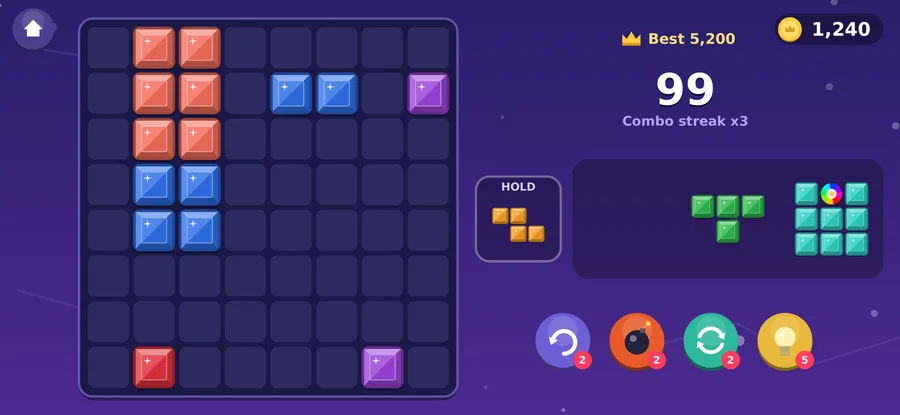
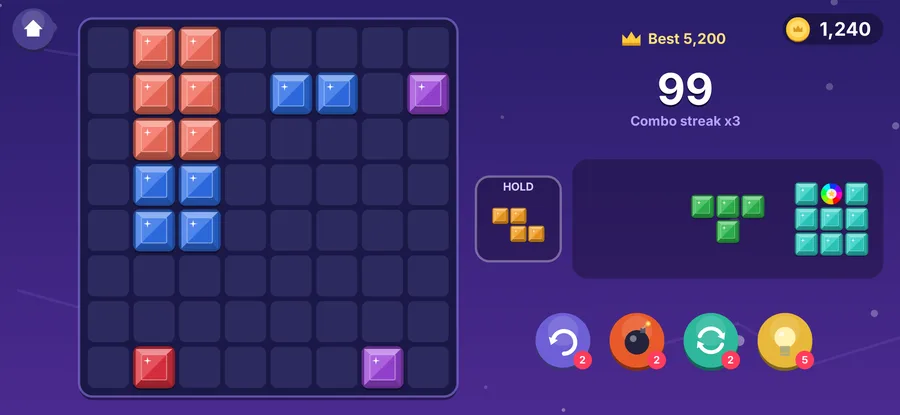
Tilequake page: more sections and pictures
Claude-Session: https://claude.ai/code/session_01KvnnsXbpzPnfzpkAY9YY1z

diff --git a/tilequake/index.html b/tilequake/index.html
@@ -105,6 +105,28 @@ details{background:rgba(0,0,0,.18);border:1px solid rgba(110,95,214,.45);border-
 summary{cursor:pointer;font-weight:700;color:#fff}
 details p{color:var(--soft);margin:8px 0 0}
 
+/* feature rows with pictures */
+.split{display:grid;grid-template-columns:1fr 1fr;gap:32px;align-items:center;margin:26px 0}
+.split.rev > .pics{order:-1}
+.pics{display:flex;gap:16px;justify-content:center;flex-wrap:wrap}
+.shot{margin:0;flex:0 0 auto;width:min(230px,42vw)}
+.shot.wide{width:min(520px,100%)}
+.shot.tab{width:min(300px,60vw)}
+.pics.three{gap:12px}
+.pics.three .shot{width:min(150px,26vw)}
+.shot img{border-radius:22px;border:3px solid #3d2e8f;box-shadow:0 18px 40px rgba(0,0,0,.45);width:100%;height:auto}
+.shot figcaption{font-size:13px;color:var(--muted);text-align:center;margin-top:8px}
+.worlds{display:grid;grid-template-columns:repeat(3,1fr);gap:16px}
+.world{border-radius:var(--r);padding:18px;background:rgba(0,0,0,.2);border:1px solid rgba(110,95,214,.45);border-top:6px solid var(--wc)}
+.world .lv{font-size:12px;font-weight:700;letter-spacing:.6px;color:var(--wc);text-transform:uppercase}
+.world h3{margin:2px 0 6px;font-size:20px;color:#fff}
+.world p{margin:0;color:var(--soft);font-size:15px}
+.diary li{margin-bottom:8px;color:var(--soft)}
+.diary b{color:var(--gold2)}
+.press a.btn{margin:4px 6px 4px 0}
+@media (max-width:860px){ .split{grid-template-columns:1fr} .split.rev > .pics{order:0} .worlds{grid-template-columns:1fr 1fr} }
+@media (max-width:560px){ .worlds{grid-template-columns:1fr} }
+
 footer{padding:36px 0 50px;color:var(--muted);font-size:14px;border-top:1px solid rgba(110,95,214,.3);margin-top:30px}
 footer .wrap{display:flex;flex-wrap:wrap;gap:16px;justify-content:space-between}
 
@@ -127,11 +149,14 @@ footer .wrap{display:flex;flex-wrap:wrap;gap:16px;justify-content:space-between}
       <a href="../">All games</a>
       <a href="#how">How to play</a>
       <a href="#modes">Modes</a>
+      <a href="#worlds">Worlds</a>
       <a href="#v1">Version 1</a>
       <a href="#roadmap">Roadmap</a>
       <a href="#rollout">Rollout</a>
       <a href="#apple">iPhone</a>
+      <a href="#shop">Shop</a>
       <a href="#faq">FAQ</a>
+      <a href="#support">Support</a>
     </div>
   </div>
 </nav>
@@ -248,6 +273,157 @@ footer .wrap{display:flex;flex-wrap:wrap;gap:16px;justify-content:space-between}
   </div>
 </section>
 
+<!-- ============================================================ WORLDS -->
+<section id="worlds">
+  <div class="wrap">
+    <h2>The six Adventure worlds</h2>
+    <p class="lead">Adventure has 120 levels, 20 in each world. Every level has one goal (score, lines, gems of one colour, or cracking ice), a move limit, and up to 3 stars. Each level was played and beaten by the game's own solver before release, so none of them are impossible.</p>
+    <div class="worlds">
+      <div class="world" style="--wc:#7f8cff"><div class="lv">Levels 1–20</div><h3>💎 Crystal Caves</h3><p>Where it all starts. Gentle boards that teach the four goals one at a time, with plenty of room to move.</p></div>
+      <div class="world" style="--wc:#ff8a4f"><div class="lv">Levels 21–40</div><h3>🔥 Ember Ridge</h3><p>Busier starting boards and rainbow gems twice as often, so big colour-clearing combos start to matter.</p></div>
+      <div class="world" style="--wc:#6fd6f4"><div class="lv">Levels 41–60</div><h3>❄ Frost Hollow</h3><p>The ice world. Most levels ask you to crack every frozen block: the first line clear only cracks the ice, the second breaks it.</p></div>
+      <div class="world" style="--wc:#f0c860"><div class="lv">Levels 61–80</div><h3>🏜 Desert Mirage</h3><p>A mix of every goal on fuller boards. Frozen blocks start showing up in levels that aren't about ice, too.</p></div>
+      <div class="world" style="--wc:#e078ea"><div class="lv">Levels 81–100</div><h3>🏮 Lantern Bazaar</h3><p>Tight boards and tighter move limits. Planning two lines ahead and using the Hold slot pays off here.</p></div>
+      <div class="world" style="--wc:#9a8cff"><div class="lv">Levels 101–120</div><h3>🌌 Starfall Peak</h3><p>The summit: the fullest starting boards in the game. Finishing all 120 levels earns a 1,000-coin trophy.</p></div>
+    </div>
+    <p class="lead" style="margin-top:20px">Stars: finish quickly for 3 stars, a bit slower for 2, and anywhere inside the move limit for 1. Ran out of moves? Add 5 more for 150 coins or a short video.</p>
+  </div>
+</section>
+
+<!-- ============================================================ LEARN / ACCESSIBILITY -->
+<section id="learn">
+  <div class="wrap">
+    <h2>Easy to learn, made for everyone</h2>
+    <div class="split">
+      <div>
+        <h3 style="font-size:24px;margin:0 0 8px">A one-minute guided tutorial</h3>
+        <p class="lead" style="margin-bottom:10px">The first time you tap Play, four short lessons show you what to do with a glowing target and a moving hand: fill a row, fill a column, park a piece in the Hold slot, then use it to clear two lines at once. Already know block puzzles? Tap <b>Skip</b>. You can replay it any time from <b>Settings › How to play</b>.</p>
+        <h3 style="font-size:24px;margin:22px 0 8px">Colour-blind mode</h3>
+        <p class="lead" style="margin-bottom:10px">Turn on <b>Symbols</b> in Settings and every gem colour also gets its own shape (● ▲ ■ ◆ ★ ✚ ⬢), so you never need to tell red from green to plan a move. It works with every block style.</p>
+      </div>
+      <div class="pics">
+        <figure class="shot"><img src="img/tutorial.webp" alt="Tutorial lesson with a glowing target row and a hand showing where to drag" loading="lazy" width="480" height="1040"><figcaption>Guided tutorial</figcaption></figure>
+        <figure class="shot"><img src="img/symbols.webp" alt="Board with symbols drawn on every gem for colour-blind players" loading="lazy" width="480" height="1040"><figcaption>Colour-blind symbols</figcaption></figure>
+      </div>
+    </div>
+    <div class="split rev">
+      <div>
+        <h3 style="font-size:24px;margin:0 0 8px">Four languages, right-to-left included</h3>
+        <p class="lead" style="margin-bottom:10px">Tilequake is fully translated into <b>English, Arabic (العربية), Urdu (اردو) and Spanish (Español)</b>. Arabic and Urdu screens read right to left. The game follows your phone's language, and you can switch in Settings › Language.</p>
+        <h3 style="font-size:24px;margin:22px 0 8px">Stuck? Ask for a hint</h3>
+        <p class="lead" style="margin-bottom:10px">You get 5 free hints every day. If you haven't moved for 10 seconds, the best spot for a piece gently glows on its own.</p>
+      </div>
+      <div class="pics three">
+        <figure class="shot"><img src="img/lang-ar.webp" alt="Tilequake in Arabic" loading="lazy" width="480" height="853"><figcaption>العربية</figcaption></figure>
+        <figure class="shot"><img src="img/lang-ur.webp" alt="Tilequake in Urdu" loading="lazy" width="480" height="853"><figcaption>اردو</figcaption></figure>
+        <figure class="shot"><img src="img/hint.webp" alt="A hint glowing on the board" loading="lazy" width="480" height="1040"><figcaption>Hint glow</figcaption></figure>
+      </div>
+    </div>
+  </div>
+</section>
+
+<!-- ============================================================ PROGRESS -->
+<section id="progress">
+  <div class="wrap">
+    <h2>Missions, trophies &amp; rewards</h2>
+    <div class="split">
+      <div>
+        <p class="lead">There's always something to aim for, and every reward comes from playing.</p>
+        <div class="grid g2">
+          <div class="card"><h3>📋 Daily Missions</h3><p>Three new missions every day, such as clearing lines, building streaks or finishing levels. They pay 100, 150 and 200 coins. Finish all three for a free Bomb and Undo.</p></div>
+          <div class="card"><h3>🎁 Daily Gift</h3><p>A 7-day gift calendar that grows from 50 coins to 400 coins and a Bomb on day 7.</p></div>
+          <div class="card"><h3>🏆 20 Trophies</h3><p>From your first cracked line to all 120 levels. Each pays coins and also unlocks a Google Play Games achievement.</p></div>
+          <div class="card"><h3>📈 Leaderboards</h3><p>Four Google Play Games leaderboards: Classic best, Daily Quake, total stars and the Weekly Event.</p></div>
+        </div>
+      </div>
+      <div class="pics">
+        <figure class="shot"><img src="img/win.webp" alt="Level complete with three stars and coins" loading="lazy" width="480" height="1040"><figcaption>Level complete</figcaption></figure>
+        <figure class="shot"><img src="img/trophies.webp" alt="Trophy list" loading="lazy" width="480" height="1040"><figcaption>Trophies</figcaption></figure>
+      </div>
+    </div>
+    <h3 style="margin:30px 0 12px;font-size:24px">All 20 trophies</h3>
+    <div class="tablewrap"><table>
+      <tr><th>Trophy goal</th><th>Coins</th></tr>
+      <tr><td>Clear your first line</td><td>50</td></tr>
+      <tr><td>Clear 100 lines</td><td>100</td></tr>
+      <tr><td>Clear 1,000 lines</td><td>300</td></tr>
+      <tr><td>Score 1,000 in one game</td><td>50</td></tr>
+      <tr><td>Score 5,000 in one game</td><td>150</td></tr>
+      <tr><td>Score 20,000 in one game</td><td>400</td></tr>
+      <tr><td>Reach a ×5 combo streak</td><td>100</td></tr>
+      <tr><td>Reach a ×10 combo streak</td><td>250</td></tr>
+      <tr><td>Clear 3 lines with one piece</td><td>100</td></tr>
+      <tr><td>Clear 5 lines with one piece</td><td>250</td></tr>
+      <tr><td>Empty the whole board</td><td>200</td></tr>
+      <tr><td>Break 10 rainbow gems</td><td>150</td></tr>
+      <tr><td>Break 50 frozen blocks</td><td>150</td></tr>
+      <tr><td>Finish 20 Adventure levels</td><td>200</td></tr>
+      <tr><td>Finish 60 Adventure levels</td><td>400</td></tr>
+      <tr><td>Finish all 120 Adventure levels</td><td>1,000</td></tr>
+      <tr><td>Earn 150 stars</td><td>500</td></tr>
+      <tr><td>Play 7 Daily Quakes</td><td>200</td></tr>
+      <tr><td>Complete 30 Daily Missions</td><td>300</td></tr>
+      <tr><td>Play 50 games</td><td>150</td></tr>
+    </table></div>
+  </div>
+</section>
+
+<!-- ============================================================ STYLES & SHOP -->
+<section id="shop">
+  <div class="wrap">
+    <h2>Styles, shop &amp; the Pass</h2>
+    <div class="split rev">
+      <div>
+        <p class="lead">Everything in the shop can be bought with coins you earn by playing. A casual player earns about 700 coins a day, so every style is within reach in about a week. Real-money packs are only a shortcut.</p>
+        <div class="tablewrap"><table>
+          <tr><th>Style</th><th>Price</th></tr>
+          <tr><td>Gems blocks · Night Sky background · Shards effect</td><td>Free</td></tr>
+          <tr><td>Confetti effect</td><td>1,500 coins</td></tr>
+          <tr><td>Neon blocks · Stars and Petals effects</td><td>2,000 coins</td></tr>
+          <tr><td>Desert Dunes, Starfield, Deep Ocean backgrounds · Fireworks effect</td><td>2,500 coins</td></tr>
+          <tr><td>Candy blocks · Winter blocks</td><td>3,000 coins</td></tr>
+          <tr><td>Garden Arches background</td><td>3,500 coins</td></tr>
+          <tr><td>Arabesque blocks · Lantern blocks</td><td>4,000 coins</td></tr>
+          <tr><td>Ember blocks</td><td>5,000 coins</td></tr>
+          <tr><td>Royal blocks</td><td>Tilequake Pass</td></tr>
+        </table></div>
+      </div>
+      <div class="pics">
+        <figure class="shot"><img src="img/shop.webp" alt="Coin shop with packs, Remove Ads and the Tilequake Pass" loading="lazy" width="480" height="1040"><figcaption>Shop</figcaption></figure>
+      </div>
+    </div>
+    <h3 style="margin:30px 0 12px;font-size:24px">Remove Ads or the Pass?</h3>
+    <div class="tablewrap"><table>
+      <tr><th></th><th>Free</th><th>Remove Ads — $2.99 once</th><th>Tilequake Pass — $4.99 / month</th></tr>
+      <tr><td>Every mode and level</td><td>✓</td><td>✓</td><td>✓</td></tr>
+      <tr><td>Ads between games</td><td>None for 7 days, then one every 2nd game</td><td>Never</td><td>Never</td></tr>
+      <tr><td>Optional reward videos</td><td>✓</td><td>✓</td><td>✓</td></tr>
+      <tr><td>Daily bonus</td><td>—</td><td>—</td><td>250 coins + 1 Undo every day</td></tr>
+      <tr><td>Royal block style</td><td>—</td><td>—</td><td>✓</td></tr>
+      <tr><td>Lasts</td><td>—</td><td>Forever, on all your Android phones</td><td>While subscribed; cancel any time in Google Play</td></tr>
+    </table></div>
+    <p class="lead" style="margin-top:14px">Coin packs from $0.99 give double coins every Friday to Sunday. Prices are in US dollars; Google Play shows the price in your own currency.</p>
+  </div>
+</section>
+
+<!-- ============================================================ ANY SCREEN -->
+<section id="screens">
+  <div class="wrap">
+    <h2>Play on any screen</h2>
+    <p class="lead">Portrait or landscape, small phone or big tablet: the board and tray rearrange themselves to fit. Your progress is saved on your phone and backed up to your Google account, and with Google Play Games it follows you to a new device.</p>
+    <div class="pics" style="align-items:flex-start">
+      <figure class="shot wide"><img src="img/land.webp" alt="Tilequake in landscape on a phone" loading="lazy" width="900" height="415"><figcaption>Landscape</figcaption></figure>
+      <figure class="shot tab"><img src="img/tablet.webp" alt="Tilequake on a tablet" loading="lazy" width="600" height="960"><figcaption>Tablet</figcaption></figure>
+    </div>
+    <div class="grid g4" style="margin-top:26px">
+      <div class="card"><h3>📱 Android 7.0+</h3><p>Phones and tablets, under 10 MB to download.</p></div>
+      <div class="card"><h3>✈ Works offline</h3><p>Every mode plays without internet.</p></div>
+      <div class="card"><h3>🔋 Light</h3><p>Simple 2D drawing that's easy on the battery.</p></div>
+      <div class="card"><h3>🔊 Your choice</h3><p>Music, sounds and vibration each switch on or off.</p></div>
+    </div>
+  </div>
+</section>
+
 <!-- ============================================================ V1 -->
 <section id="v1">
   <div class="wrap">
@@ -272,6 +448,20 @@ footer .wrap{display:flex;flex-wrap:wrap;gap:16px;justify-content:space-between}
         <ul><li><b>No ads at all for your first 7 days</b></li><li>After that: one short ad every second game — never during play</li><li>Optional videos for free rewards</li><li>No banners. Remove Ads or the Pass turns them off</li></ul></div>
     </div>
     <p style="color:var(--muted);font-size:13px;margin-top:10px">* Google Play Games features switch on as soon as the game is live on Google Play.</p>
+  </div>
+</section>
+
+<!-- ============================================================ DIARY -->
+<section id="diary">
+  <div class="wrap">
+    <h2>Development diary</h2>
+    <p class="lead">How Version 1 came together.</p>
+    <ul class="diary">
+      <li><b>15 Nov 2026 — First playable.</b> 8×8 board, 37 piece shapes, combo streaks, Classic and Daily Quake, boosters and the gem art.</li>
+      <li><b>16 Nov 2026 — The big Version 1 update.</b> Adventure (120 levels, 6 worlds), Hold slot, rainbow gems, frozen blocks, Weekly Events, Daily Missions, 20 trophies, Google Play Games, styles, music and four languages.</li>
+      <li><b>16 Nov 2026 — Ready for launch.</b> Guided tutorial, colour-blind symbols, a fairer coin balance, a pre-registration reward, and store pages in four languages.</li>
+      <li><b>Late Nov 2026 — Google Play.</b> Internal testing first, then pre-registration and launch.</li>
+    </ul>
   </div>
 </section>
 
@@ -356,6 +546,38 @@ footer .wrap{display:flex;flex-wrap:wrap;gap:16px;justify-content:space-between}
   </div>
 </section>
 
+<!-- ============================================================ SUPPORT -->
+<section id="support">
+  <div class="wrap">
+    <h2>Help &amp; support</h2>
+    <div class="grid g3">
+      <div class="card"><h3>🧾 Restore purchases</h3><p>Bought Remove Ads or the Pass on another phone? Sign in with the same Google account and tap <b>Settings › Restore purchases</b>.</p></div>
+      <div class="card"><h3>💳 Refunds</h3><p>Purchases go through Google Play. You can request a refund from your Google Play order history, or email us and we'll help.</p></div>
+      <div class="card"><h3>🔒 Your data</h3><p>We don't run servers and don't collect personal data. Ads come from Google AdMob; you can change ad consent with the "i" button. Read the <a href="privacy.html">privacy policy</a>.</p></div>
+      <div class="card"><h3>☁ Moving phones</h3><p>Keep Android backup on, or sign in to Google Play Games, and your progress comes back on the new phone.</p></div>
+      <div class="card"><h3>🗑 Delete your progress</h3><p>Uninstall the game, or clear its storage in Android Settings › Apps › Tilequake. Play Games data can be removed in the Google Play Games app.</p></div>
+      <div class="card"><h3>✉ Contact us</h3><p>Bugs, ideas or questions: <a href="mailto:hassan.azhar@brisknest.us">hassan.azhar@brisknest.us</a>. Please include your phone model and what happened.</p></div>
+    </div>
+  </div>
+</section>
+
+<!-- ============================================================ PRESS -->
+<section id="press" class="press">
+  <div class="wrap">
+    <h2>Press kit</h2>
+    <div class="grid g2">
+      <div class="card"><h3>Fact sheet</h3><ul>
+        <li><b>Name:</b> Tilequake: Block Puzzle</li><li><b>Developer &amp; publisher:</b> Hassan Azhar · BriskNest</li>
+        <li><b>Platform:</b> Android (Google Play); iPhone and iPad planned for 2027</li><li><b>Release:</b> late November 2026</li>
+        <li><b>Price:</b> free, with optional in-app purchases and ads</li><li><b>Languages:</b> English, Arabic, Urdu, Spanish</li>
+        <li><b>Age:</b> 13+</li><li><b>Contact:</b> <a href="mailto:hassan.azhar@brisknest.us">hassan.azhar@brisknest.us</a></li></ul></div>
+      <div class="card"><h3>About the game</h3>
+        <p>Tilequake is an original gem block puzzle. Players drag pieces onto an 8×8 board and break full rows and columns, building combo streaks that shake the board. It has 120 Adventure levels across six worlds, a Daily Quake puzzle shared by every player, a weekly themed event, daily missions and 20 trophies, and it plays fully offline in four languages.</p>
+        <p style="margin-top:14px"><a class="btn ghost" href="img/icon.webp" download>Download icon</a><a class="btn ghost" href="img/feature.webp" download>Download banner</a></p></div>
+    </div>
+  </div>
+</section>
+
 <!-- ============================================================ FAQ -->
 <section id="faq">
   <div class="wrap">
@@ -366,6 +588,13 @@ footer .wrap{display:flex;flex-wrap:wrap;gap:16px;justify-content:space-between}
     <details><summary>How do I remove ads?</summary><p>There are no ads in your first 7 days. After that you can buy Remove Ads once ($2.99) or join the Tilequake Pass. Both also restore on your other Android phones.</p></details>
     <details><summary>Which languages are supported?</summary><p>English, Arabic, Urdu and Spanish. Tilequake follows your phone's language; you can change it in Settings.</p></details>
     <details><summary>Is it suitable for children?</summary><p>Tilequake is made for players 13 and older. A kids' edition without ads (Wonder Squad Blocks) is on the roadmap.</p></details>
+        <details><summary>What's the difference between Classic and Adventure?</summary><p>Classic is endless: play until no piece fits and chase your best score. Adventure has 120 levels, each with a goal, a move limit and up to 3 stars.</p></details>
+    <details><summary>Can I rotate pieces?</summary><p>No. Pieces always keep their shape. That's part of the challenge, and why the Hold slot and Reroll booster exist.</p></details>
+    <details><summary>What happens when no piece fits?</summary><p>The run ends. In Classic you can use an Aftershock second chance once (300 coins or a short video), which breaks 2 rows and 2 columns so you can keep going.</p></details>
+    <details><summary>Is the Daily Quake really the same for everyone?</summary><p>Yes. Everyone in the world gets the same pieces in the same order that day, so scores are fair to compare on the leaderboard.</p></details>
+    <details><summary>Do I need a Google account?</summary><p>No. You can play everything without signing in. Signing in to Google Play Games adds leaderboards, achievements and cloud save.</p></details>
+    <details><summary>Does the Pass renew automatically?</summary><p>Yes, every month, until you cancel in Google Play › Payments &amp; subscriptions. You keep the Pass until the end of the month you paid for.</p></details>
+    <details><summary>Will there be new levels?</summary><p>Yes. Version 2 (early 2027) adds levels 121–240 and two new worlds. See the roadmap above.</p></details>
     <details><summary>I found a bug or have an idea.</summary><p>Write to <a href="mailto:hassan.azhar@brisknest.us">hassan.azhar@brisknest.us</a> — we read every message.</p></details>
   </div>
 </section>
